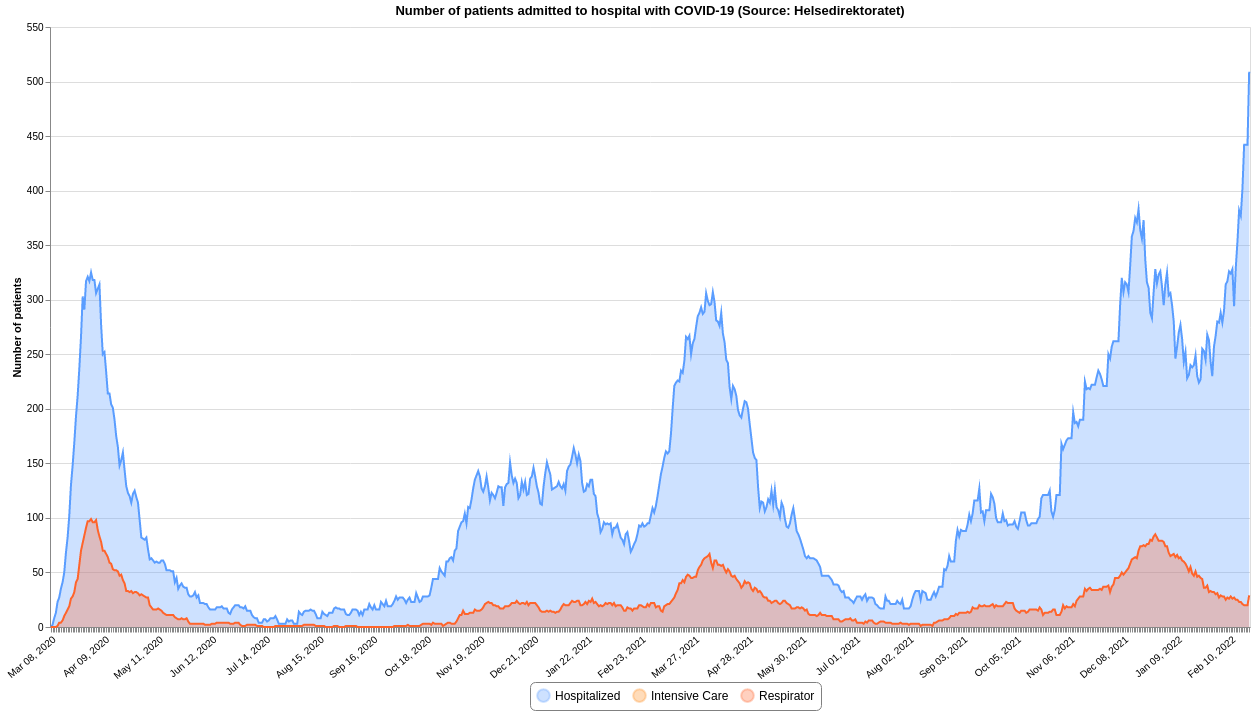
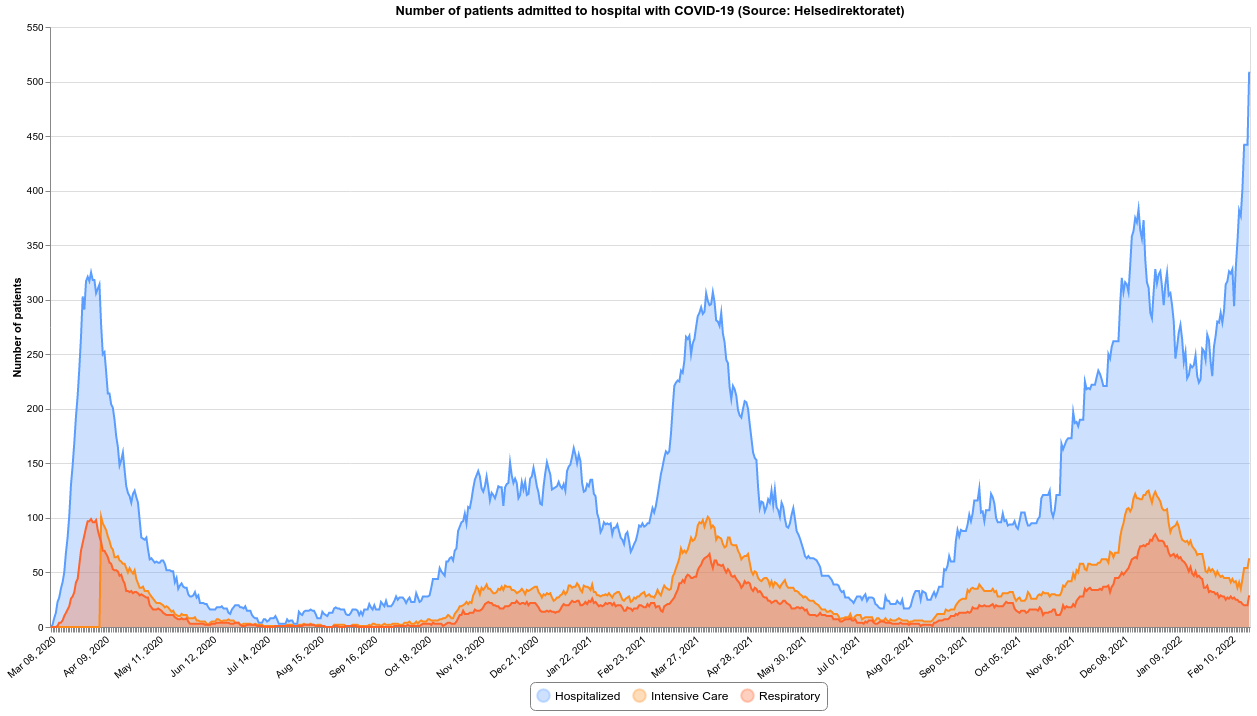
Fix hospitalized graph

diff --git a/src/utils/graphs.py b/src/utils/graphs.py
@@ -265,8 +265,8 @@ def hospitalized():
     ).replace(
         {
             "admissions": "Hospitalized",
-            "icu": "Intensive",
-            "respiratory": "Respirator",
+            "icu": "Intensive Care",
+            "respiratory": "Respiratory",
         }
     )
 
@@ -286,7 +286,7 @@ def hospitalized():
             color=alt.Color(
                 "variable:N",
                 scale=alt.Scale(
-                    domain=["Hospitalized", "Intensive Care", "Respirator"],
+                    domain=["Hospitalized", "Intensive Care", "Respiratory"],
                     range=["#5A9DFF", "#FF8B1B", "#FF642B"],
                 ),
                 legend=alt.Legend(title=None),
